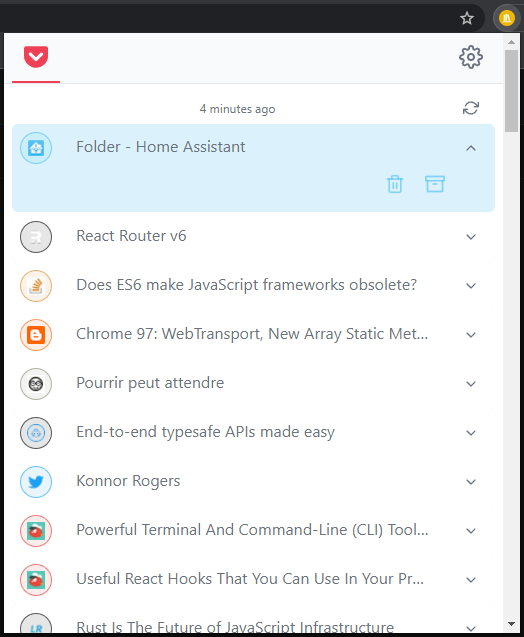
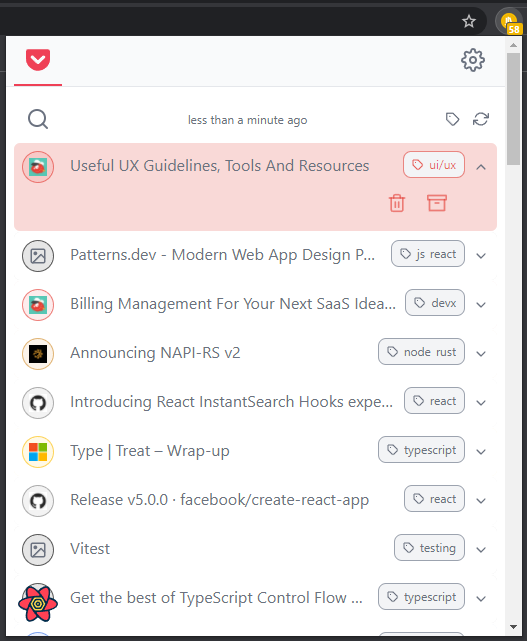
feat: v1.3.0 (#52)
fixes #45 (part 4)
- updating images
- showing new images in README
- small fixes
  - always show scrollbar
  - close adding tags when opening filters
- v 1.3.0

Changed region(s): [[0.0, 0.0, 1.0, 1.0]]

diff --git a/src/components/List/List.tsx b/src/components/List/List.tsx
@@ -86,6 +86,7 @@ export const List: FC = () => {
     } else {
       setSearchOpen(false);
     }
+    setAddTagsItemOpen(null);
   };
 
   const openTag = (value: boolean) => {
@@ -96,6 +97,7 @@ export const List: FC = () => {
     } else {
       setTagOpen(false);
     }
+    setAddTagsItemOpen(null);
   };
 
   useHotkeys('r', () => { refresh(); });

diff --git a/src/pages/popup.html b/src/pages/popup.html
@@ -5,6 +5,6 @@
   </head>
   <body>
     <script src="./popup/index.tsx" type="module"></script>
-    <div id="root"></div>
+    <div id="root" class="min-h-screen"></div>
   </body>
 </html>

diff --git a/README.md b/README.md
@@ -2,8 +2,13 @@
 
 > pile is a material design-ish chrome extension that show your [pocket](https://getpocket.com) list
 
-![example](img/pile.png)
-![example2](img/pile-opened.png)
+| default view | item opened | adding tag |
+|-|-|-|
+| ![example](img/pile.png) | ![example2](img/pile-opened.png) | ![example3](img/pile-tags.png) |
+
+| search filter | tag filter |
+|-|-|
+| ![example4](img/pile-search-filter.png) | ![example5](img/pile-tag-filter.png) |
 
 the icons color are dynamicaly computed thx to the [`node-vibrant`][1] library
 
